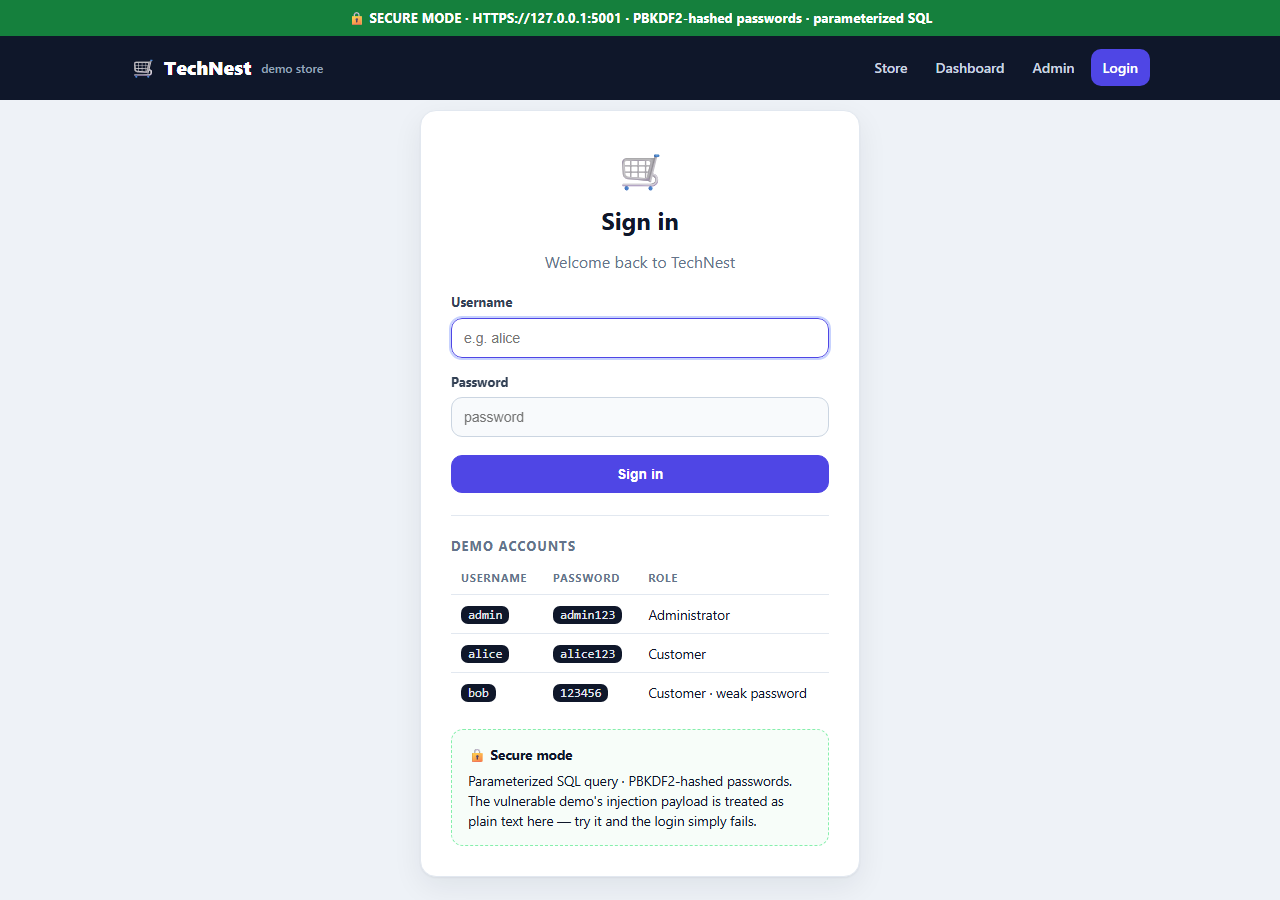
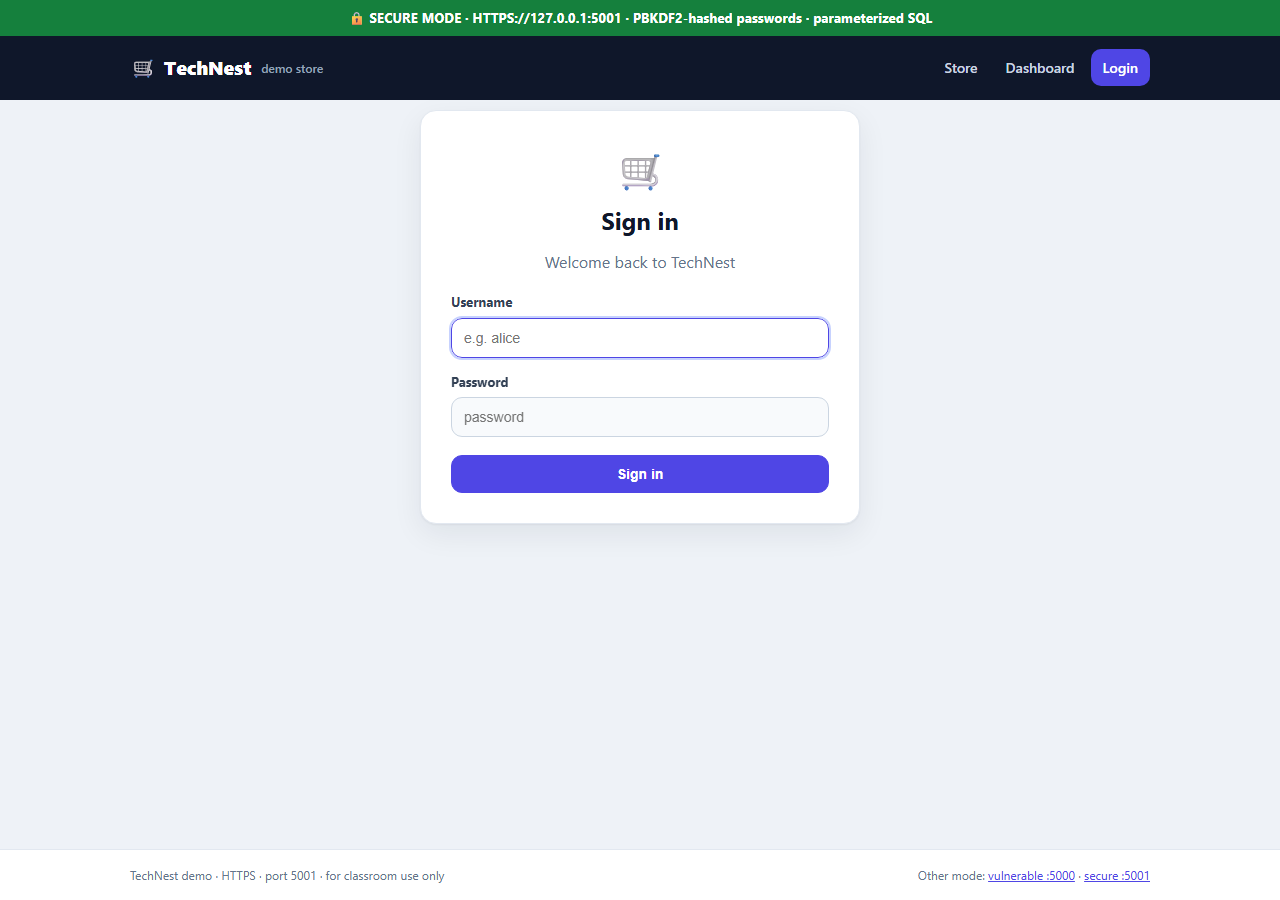
yay

diff --git a/security-demo-app.py b/security-demo-app.py
@@ -69,6 +69,24 @@ DEMO_ACCOUNTS = [
     ("bob", "123456", "Customer · weak password"),
 ]
 
+# Word, PowerPoint and some phone keyboards silently replace straight quotes
+# and dashes with typographic look-alikes (' -> ’, -- -> —). When the demo
+# payload is copied from a slide, those characters stop it from being SQL.
+# We normalize them back to ASCII in VULNERABLE mode only, so the classroom
+# demo works. This does NOT make the app safe: the input is still pasted
+# straight into the SQL string below.
+TYPOGRAPHIC_FIXES = str.maketrans({
+    "\u2018": "'", "\u2019": "'", "\u201a": "'", "\u201b": "'",  # curly single quotes
+    "\u201c": '"', "\u201d": '"',                                  # curly double quotes
+    "\u00b4": "'", "\u0060": "'", "\u2032": "'",                  # acute, backtick, prime
+    "\u2013": "-", "\u2014": "-", "\u2015": "-", "\u2212": "-",   # en/em dash, minus sign
+})
+
+
+def normalize_demo_input(value: str) -> str:
+    """Turn typographic quotes/dashes into ASCII (vulnerable demo only)."""
+    return value.translate(TYPOGRAPHIC_FIXES)
+
 
 def get_db() -> sqlite3.Connection:
     """One SQLite connection per request."""
@@ -288,7 +306,6 @@ BASE = """<!DOCTYPE html>
     <nav>
       <a href="/">Store</a>
       <a href="/dashboard">Dashboard</a>
-      <a href="/admin">Admin</a>
       {% if user %}
         <span class="who">👤 {{ user }}</span>
         <a class="nav-cta" href="/logout">Logout</a>
@@ -397,6 +414,10 @@ def login():
                 return redirect("/dashboard")
         else:
             # VULNERABLE: raw string concatenation -> SQL injection
+            # Normalize typographic quotes/dashes so payloads pasted from
+            # slides still work. The input is still NOT escaped or sanitized.
+            username = normalize_demo_input(username)
+            password = normalize_demo_input(password)
             query = (
                 f"SELECT username, password, is_admin FROM users "
                 f"WHERE username = '{username}' AND password = '{password}'"
@@ -418,28 +439,7 @@ def login():
 
 
 def login_page(error=None):
-    creds_rows = "".join(
-        f"<tr><td><code>{u}</code></td><td><code>{p}</code></td><td>{r}</td></tr>"
-        for u, p, r in DEMO_ACCOUNTS
-    )
     error_html = f'<div class="alert danger">⚠ {html.escape(error)}</div>' if error else ""
-
-    if SECURE:
-        mode_hint = """
-        <div class="hint ok">
-          <strong>🔒 Secure mode</strong>
-          <p>Parameterized SQL query · PBKDF2-hashed passwords. The vulnerable
-          demo's injection payload is treated as plain text here — try it and
-          the login simply fails.</p>
-        </div>"""
-    else:
-        mode_hint = """
-        <div class="hint danger">
-          <strong>⚠ Vulnerable mode</strong>
-          <p>SQL is built by string concatenation. Type this into the
-          <em>username</em> field (any password):</p>
-          <code class="payload">admin' OR '1'='1' --</code>
-        </div>"""
 
     return f"""
     <div class="auth-wrap">
@@ -459,15 +459,6 @@ def login_page(error=None):
           </label>
           <button class="btn primary" type="submit">Sign in</button>
         </form>
-        <div class="divider"></div>
-        <div class="cred-box">
-          <h3>Demo accounts</h3>
-          <table>
-            <thead><tr><th>Username</th><th>Password</th><th>Role</th></tr></thead>
-            <tbody>{creds_rows}</tbody>
-          </table>
-        </div>
-        {mode_hint}
       </div>
     </div>
     """

diff --git a/README.md b/README.md
@@ -351,3 +351,5 @@ They are recreated automatically the next time each mode starts.
 | Wireshark shows no loopback traffic (Windows) | Install Npcap with loopback support and capture on the Npcap Loopback Adapter. |
 | `iptables: Permission denied` | Run with `sudo` on Linux. iptables does not exist on Windows. |
 | Brute-force loop reports a false positive | Match on `Welcome back, bob` — the login page subtitle also contains "Welcome back". |
+| SQL injection payload is rejected | Make sure you are on **:5000** (vulnerable), not :5001. Curly quotes and long dashes from slides are normalized automatically, so copied payloads also work. |
+| A restart/change seems ignored | Several app copies may be running. Stop them all, then start fresh: `Get-CimInstance Win32_Process -Filter "Name='python.exe'" \| Where-Object { $_.CommandLine -match 'security-demo-app' } \| ForEach-Object { Stop-Process -Id $_.ProcessId -Force }` |
